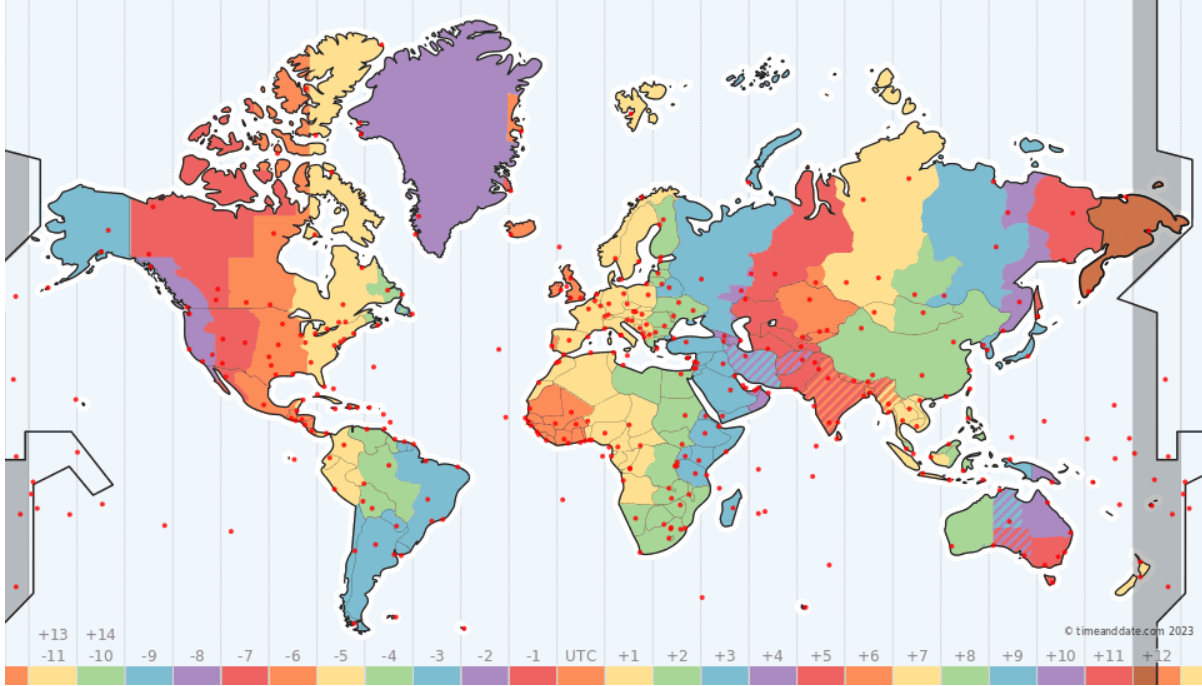
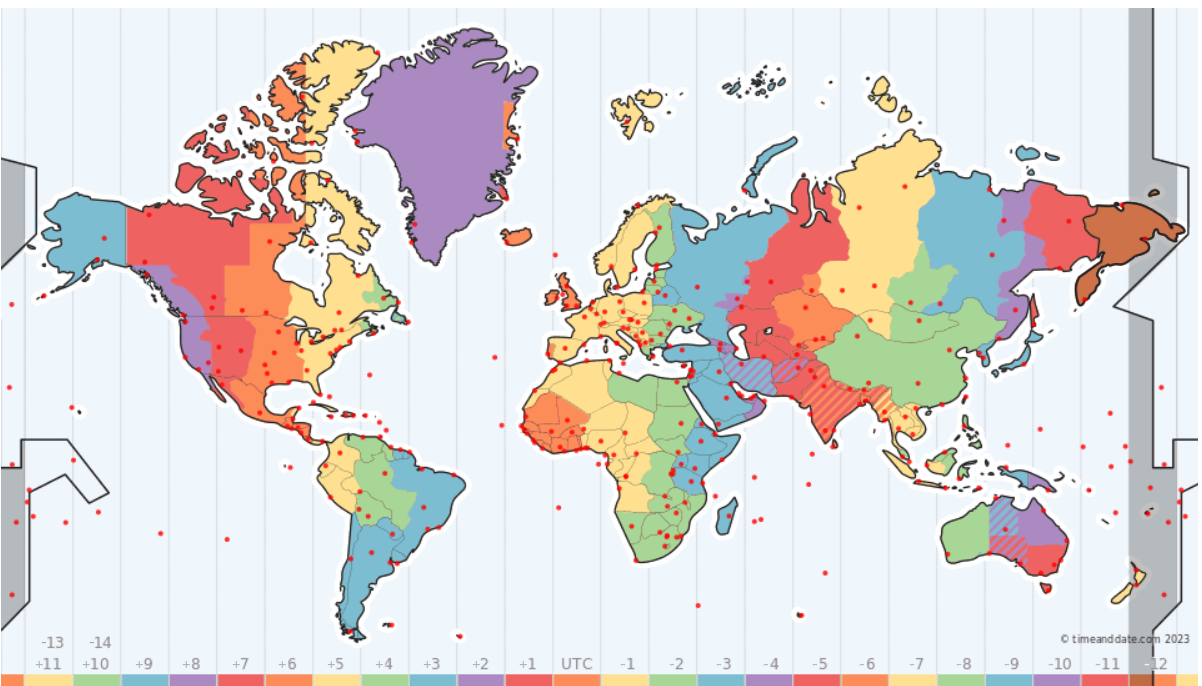
GMT fix

diff --git a/handlers.py b/handlers.py
@@ -33,13 +33,7 @@ async def select_timezone(update: Update, context: CallbackContext) -> int:
         print(f'{timezone_validation}, input was: {user_timezone}')
         await update.message.reply_text('Please, insert a valid UTC timezone (between -11 and +14)')
         return
-    else:
-        # The Pytz library inverts the GMT Map, so this conditional block intends to solve this problem.
-        if '-' in user_timezone:
-            user_timezone = user_timezone.replace('-','+')
-        else:
-            user_timezone = user_timezone.replace('+','-')
-    
+
     context.user_data['timezone'] = f'Etc/GMT{(user_timezone)}'  #timeconfig.get_hours(user_timezone) # Storing the selected tz
     await update.message.reply_text(
         f'Great choice! Your timezone is now set to UTC{user_timezone}.\nYou may now use /set to define the moment of your daily message.'
